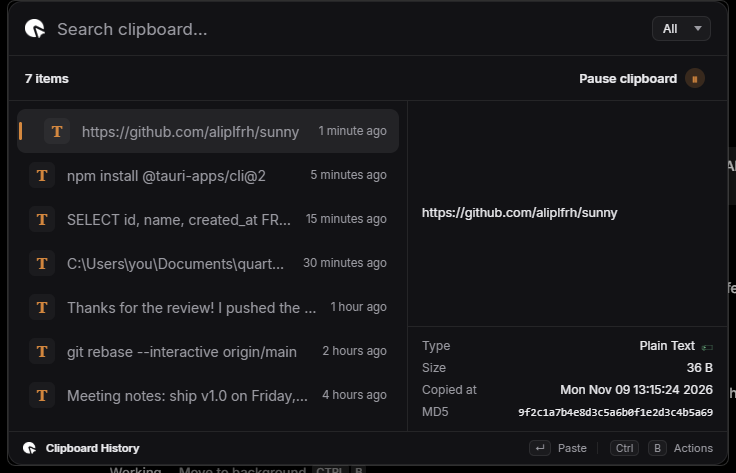
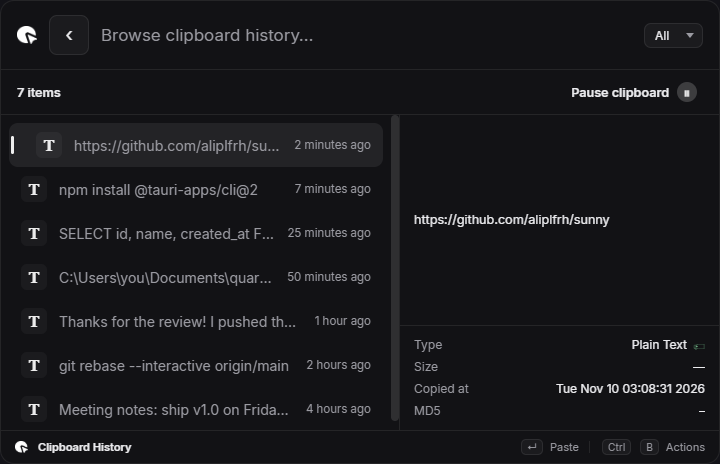
docs: refresh screenshots and document memory footprint honestly
The old screenshots showed pre-1.0.4 behaviour: Start Menu row labels, an ungrouped list, and the removed ':' emoji entry. Retaken from the running build so home, grouped Results/Files, clipboard and the command-based emoji picker match what ships.

Clipboard sample entries are fabricated rather than real clipboard history, because the live capture contained personal URLs and an email address.

Add a memory section measuring the whole WebView2 process tree instead of the sunny.exe row alone: 11.3 MB host versus 114.6 MB across 8 processes, compared with 341.9 MB for Raycast on the same machine. State that the Raycast figure is an observation, not a controlled benchmark.

diff --git a/README.md b/README.md
@@ -23,15 +23,25 @@ keystroke away, keyboard-first, and fast enough that you stop thinking about it.
 [Vicinae](https://github.com/vicinaehq/vicinae)'s core ideas — the behaviour is ported, the
 implementation is new.
 
-It is deliberately small: a single ~10 MB executable, no Electron, no background services you did not
-ask for, no account, no telemetry.
+The executable is 10.5 MB: no Electron runtime bundled, no account, no telemetry. It renders through
+the WebView2 already installed on Windows, so it costs a host process plus WebView2 helpers at
+runtime rather than shipping its own browser engine — see [Memory footprint](#memory-footprint)
+for the real numbers.
 
 <br />
 
 <div align="center">
-  <img src="docs/assets/launcher-search.png" alt="Searching apps and files from the main search field" width="720" />
+  <img src="docs/assets/launcher-home.png" alt="Sunny's home view: Favorites above Suggestions ranked by usage" width="720" />
   <br />
-  <sub><b>One search field for everything</b> — apps, files, calculations, and commands.</sub>
+  <sub><b>Favorites and Suggestions</b> — pinned apps first, then what you actually launch.</sub>
+</div>
+
+<br />
+
+<div align="center">
+  <img src="docs/assets/launcher-search.png" alt="Results grouped above Files when searching for Valorant" width="720" />
+  <br />
+  <sub><b>Grouped search</b> — Results always above Files, and Files-only when nothing else matches.</sub>
 </div>
 
 <br />
@@ -49,7 +59,9 @@ all in the same list, ranked by relevance. No modes to remember, no prefixes to 
 - **Favorites and Suggestions** — the home view shows pinned apps, then suggestions ranked by
   how often you successfully launch them; preferences and counts stay on your computer
 - **Calculator** — type `12*7` and the answer is the first row; press <kbd>Enter</kbd> to copy it
-- **Commands** — Clipboard History, Emoji Picker, Search Files, Settings
+- **Commands** — Clipboard History, Emoji Picker, Search Files, Settings. Each command appears
+  only when you search for it; **Search Files** additionally stays hidden while
+  *Include Files in Root Search* already covers it
 
 ### 📋 Clipboard history
 
@@ -62,12 +74,15 @@ timestamp, and checksum before you paste.
 
 <div align="center">
   <img src="docs/assets/clipboard-history.png" alt="Clipboard history with preview and metadata" width="720" />
+  <br />
+  <sub>Search "Clipboard" and open the command. Sample entries shown.</sub>
 </div>
 
 ### 😀 Emoji picker
 
-Search for **Emoji**, open the **Emoji Picker** command, then search 1,870 emoji by name.
-<kbd>Enter</kbd> copies the one you picked. Punctuation in normal searches never opens the picker.
+Search for **Emoji**, open the **Emoji Picker**, then search 1,870 emoji by name.
+<kbd>Enter</kbd> copies the one you picked. Typing `:` in a normal search does nothing special —
+the picker is a command you choose, not a hidden mode.
 
 <div align="center">
   <img src="docs/assets/emoji-picker.png" alt="Emoji picker searching for fire" width="720" />
@@ -150,6 +165,48 @@ version. About Sunny displays the version of the binary you are actually running
 | 🐧 | Linux and macOS builds | 🚧 planned |
 
 See [docs/ROADMAP.md](docs/ROADMAP.md) for the full picture, including what is explicitly out of scope.
+
+<br />
+
+## Memory footprint
+
+Sunny is small on disk, but it is honest to say it is **not** the smallest thing in RAM. The
+executable is 10.5 MB, yet it renders through WebView2, so at runtime you own a host process plus
+its Chromium helper processes.
+
+Measured with **private working set** — the number Task Manager shows in its *Memory* column — on
+Windows 11 x64, Sunny 1.0.5 freshly launched and idle, five samples:
+
+| | Process count | Memory (private working set) |
+|---|:--:|---|
+| `sunny.exe` alone (what one Task Manager row shows) | 1 | **11.3 MB** |
+| Sunny, full process tree (host + WebView2 helpers) | 8 | **114.6 MB** |
+
+The single row is misleading. If you collapse Sunny in Task Manager you are only looking at the
+Rust host; the seven `msedgewebview2.exe` children hold the rest.
+
+### Compared with Raycast
+
+| Launcher | Processes | Memory (Task Manager *Memory* column) |
+|---|:--:|---|
+| **Sunny** (full tree) | 8 | **114.6 MB** |
+| Raycast (expanded row) | 10 | 341.9 MB |
+
+Both readings are from Task Manager on the same machine; Raycast was already running and reported
+341.9 MB across its 10 processes. On this comparison Sunny uses roughly **a third** of Raycast's
+memory.
+
+A fair caveat: I measured Sunny directly and sampled five times, but the Raycast figure is the total
+its own Task Manager row reported in that session rather than a controlled re-run here. Treat it as
+a same-machine observation, not a benchmark. Raycast may cache more, keep more extensions warm, or
+behave differently after a fresh start.
+
+### Why it is not lower
+
+Electron-style runtimes share one constraint: the UI is HTML. Sunny avoids bundling a browser
+engine — it uses the WebView2 that already ships with Windows — which is why the download is
+10.5 MB instead of ~100 MB. Avoiding a bundled engine does not remove the cost of having *a*
+engine, only the duplication.
 
 <br />
 
